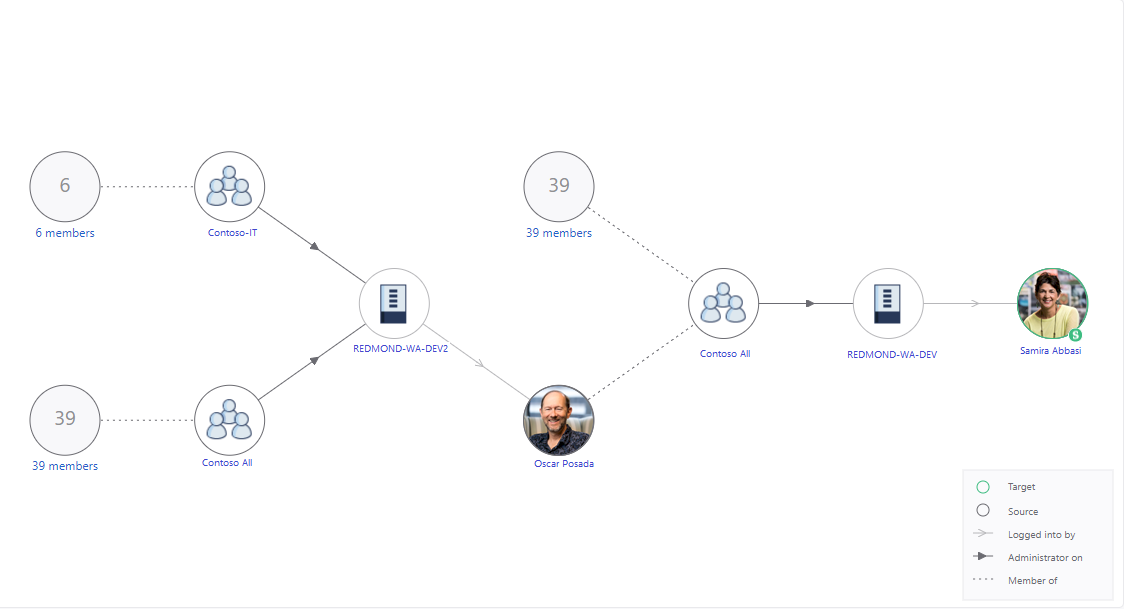
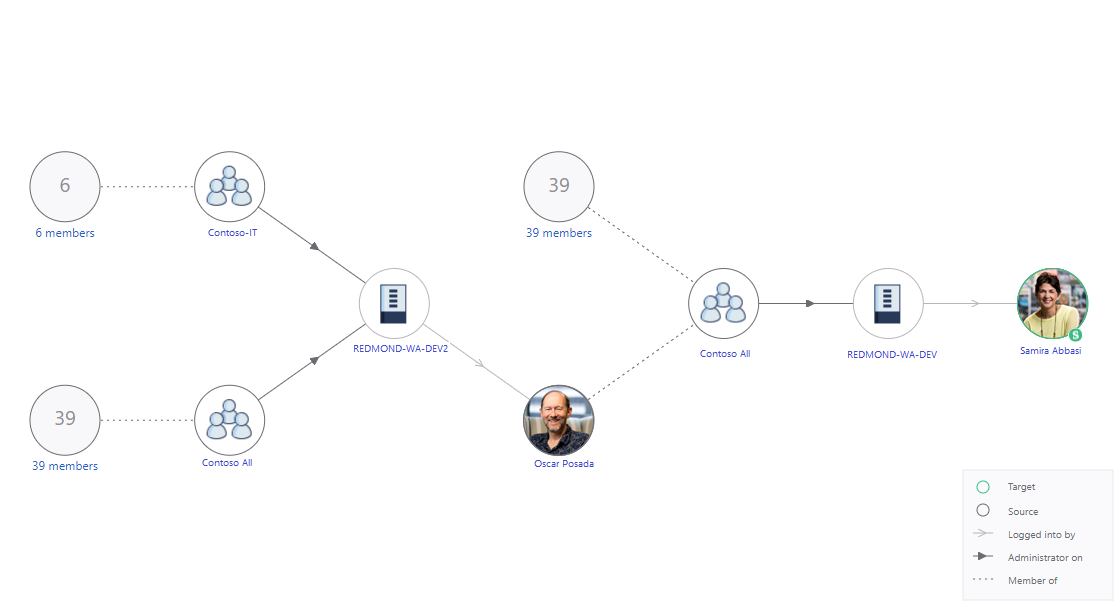
Crops image and adds lightbox

diff --git a/learn-m365-pr/m365/ransomware-recover/includes/describe-how-respond-ransomware-attack.md b/learn-m365-pr/m365/ransomware-recover/includes/describe-how-respond-ransomware-attack.md
@@ -27,7 +27,7 @@ To propagate the attack, the cybercriminal might have snooped around the device 
 
 Nowadays, we're surrounded by so many devices, user accounts, and networks that it would be difficult to manually identify a complete attack trajectory. This problem is exacerbated for organizations, because they rely on a much larger scale of devices, users, and complex networks. Fortunately, there are clever antimalware tools that can identify the attack trajectory from entry points, along with any suspected attack related activities, mapped across all affected devices. A trajectory could look like this:
 
-:::image type="content" source="../media/potential-trajectory.png" alt-text="Diagram that shows a map of devices and users in a path." border="false":::
+:::image type="content" source="../media/potential-trajectory.png" alt-text="Diagram that shows a map of devices and users in a path." lightbox="../media/potential-trajectory.png" border="false":::
 
 This diagram shows how a potential trajectory could be mapped out. It represents how an attacker could get to a key user in an organization, like a global manager.
 
